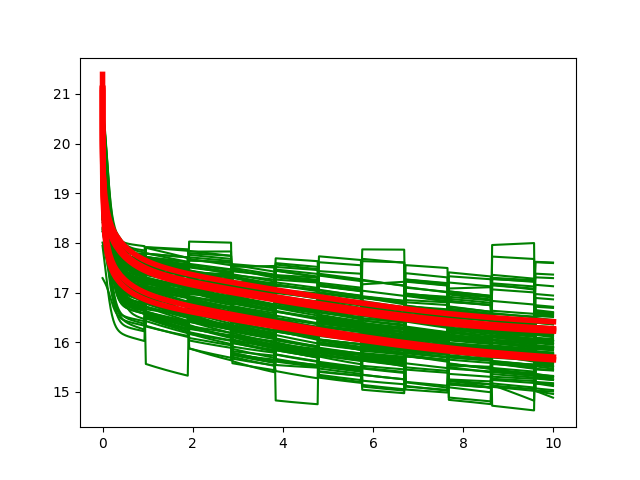
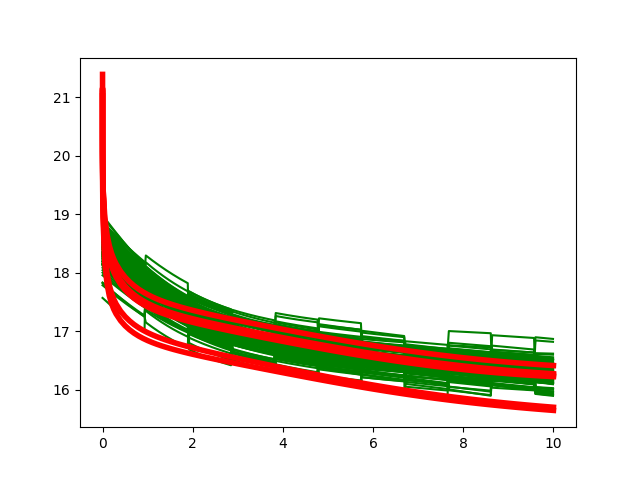
Add a working bayesian model

diff --git a/src/BNNFit.py b/src/BNNFit.py
@@ -68,37 +68,42 @@ def posterior(kernel_size, bias_size, dtype=None):
 
 
 def create_model(train_size):
-    
-
-    model = tf.keras.Sequential([
+    model = keras.Sequential([keras.layers.Input(shape=(2,)),
+        layers.BatchNormalization(), # check what this does?
         tfp.layers.DenseVariational(
-            units=8,
-            make_prior_fn=prior,
-            make_posterior_fn=posterior,
-            kl_weight=1 / train_size,
-            activation="sigmoid",
-        ), tfp.layers.DenseVariational(
-            units=8,
-            make_prior_fn=prior,
-            make_posterior_fn=posterior,
-            kl_weight=1 / train_size,
-            activation="sigmoid",),
-            layers.Dense(units=1)])
+                units=8,
+                make_prior_fn=prior,
+                make_posterior_fn=posterior,
+                kl_weight=1 / train_size,
+                activation="sigmoid",),
+        tfp.layers.DenseVariational(
+                units=8,
+                make_prior_fn=prior,
+                make_posterior_fn=posterior,
+                kl_weight=1 / train_size,
+                activation="sigmoid",),
+        layers.Dense(units=1)])
+        #tfp.layers.IndependentNormal(1)])
+
+    #model = keras.Model(inputs=inputs, outputs=outputs)
 
     return model
 
+
+def negative_loglikelihood(targets, estimated_distribution):
+    return -estimated_distribution.log_prob(targets)
 
 
 def run_fit(model, loss, QT, Z):
 
     model.compile(
-        optimizer=keras.optimizers.Adam(learning_rate=0.01),
+        optimizer=keras.optimizers.Adam(learning_rate=0.0005),
         loss=loss,
         metrics=[keras.metrics.RootMeanSquaredError()],
     )
 
     print("Start training the model...")
-    model_history = model.fit(QT, Z, epochs=150, verbose=2)
+    model_history = model.fit(QT, Z, epochs=1000, verbose=2)
     print("Model training finished.")
     _, rmse = model.evaluate(QT, Z, verbose=0)
     print(f"Train RMSE: {round(rmse, 3)}")
@@ -123,9 +128,9 @@ def run_fit(model, loss, QT, Z):
 # dataset[0], dataset[1]
 #model.fit(dataset[0], dataset[1], epochs=400, batch_size=20, verbose=2)
 
-mse_loss = keras.losses.MeanAbsoluteError()
+mae_loss = keras.losses.MeanAbsoluteError()
 bnn_model = create_model(108*21*6)
-run_fit(bnn_model, mse_loss, dataset[0], dataset[1])
+run_fit(bnn_model, mae_loss, dataset[0], dataset[1])
 
 
 X = np.arange(np.min(TG), np.max(TG), 0.1)
@@ -158,6 +163,18 @@ def plot_2Dprediction(model, iterations=100, Q_idx=10):
     plt.clf()
     for _ in range(iterations):
         plt.plot(tempsLin, (model.predict(plotarray)), color="green")
+    #prediction_distribution = model(np.array(plotarray))
+    #print(prediction_distribution)
+
+    #print(prediction_distribution.mean(), prediction_distribution.stddev())
+
+    #prediction_mean = prediction_distribution.mean().numpy()
+    #prediction_stdv = prediction_distribution.stddev().numpy()
+
+    #plt.plot(tempsLin, prediction_mean)
+    #plt.plot(tempsLin, prediction_mean + prediction_stdv)
+    #plt.plot(tempsLin, prediction_mean - prediction_stdv)
+
     plt.plot(templist, (z_array[0, Q_idx, :]), color="red", linewidth=4)
     plt.plot(templist, (z_array[1, Q_idx, :]), color="red", linewidth=4)
     plt.plot(templist, (z_array[2, Q_idx, :]), color="red", linewidth=4)
